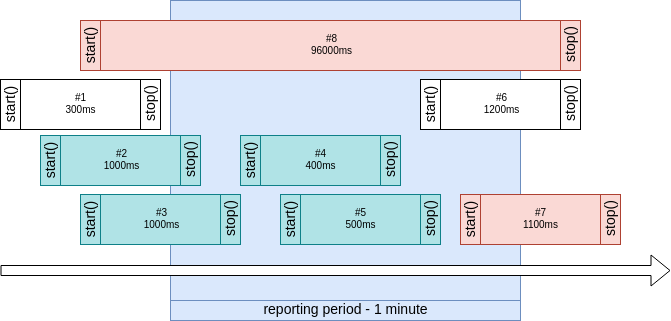
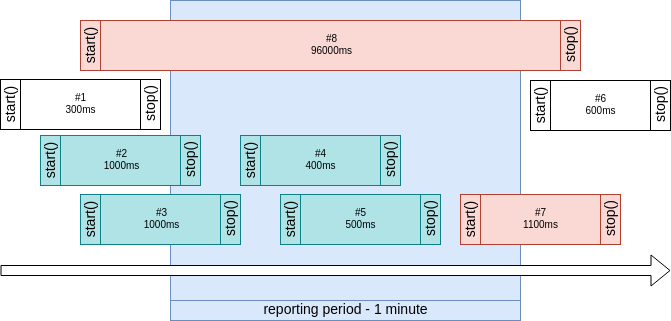
Add metric documentation

Changed region(s): [[0.6259, 0.2492, 0.924, 0.405], [0.9538, 0.2492, 1.0, 0.405]]

diff --git a/README.md b/README.md
@@ -126,12 +126,16 @@ Latency is the time in milliseconds between two points: profiledCall start and s
 Total calls count will be 4.  
   - callsCountSum - 4 - how many times profiledCall was invoked
 
-Profiled call #6 started during current reporting period but not stopped will be ignored.  
-Profiled calls #7 and #8 started in current or previous reporting period and still running considered as activeCalls.  
-Profiled call #8 will have maximum latency: activeCallsLatencyMax.
+Profiled call #6 not started during current reporting period and will be ignored.
+Profiled call #7 started during current reporting period but not stopped yet. 
+It will not be used in latency and callsCount calculation but it will be used during activeCalls calculation.  
+Profiled calls #7 and #8 started in current or previous reporting period and still running. 
+They considered as activeCalls.  
+Profiled call #8 will have maximum latency: 90000ms (96000 is total time, 
+but at the end of reporting period duration of the profiled call #8 was only 90_000ms.).
 Total count of active calls are 2.  
    - activeCallsCountMax - 2  
-   - activeCallsLatencyMax - 96000ms
+   - activeCallsLatencyMax - 90_000ms
  
 ![](docs/metric-example-throughput.png?raw=true "Graph View")
 
